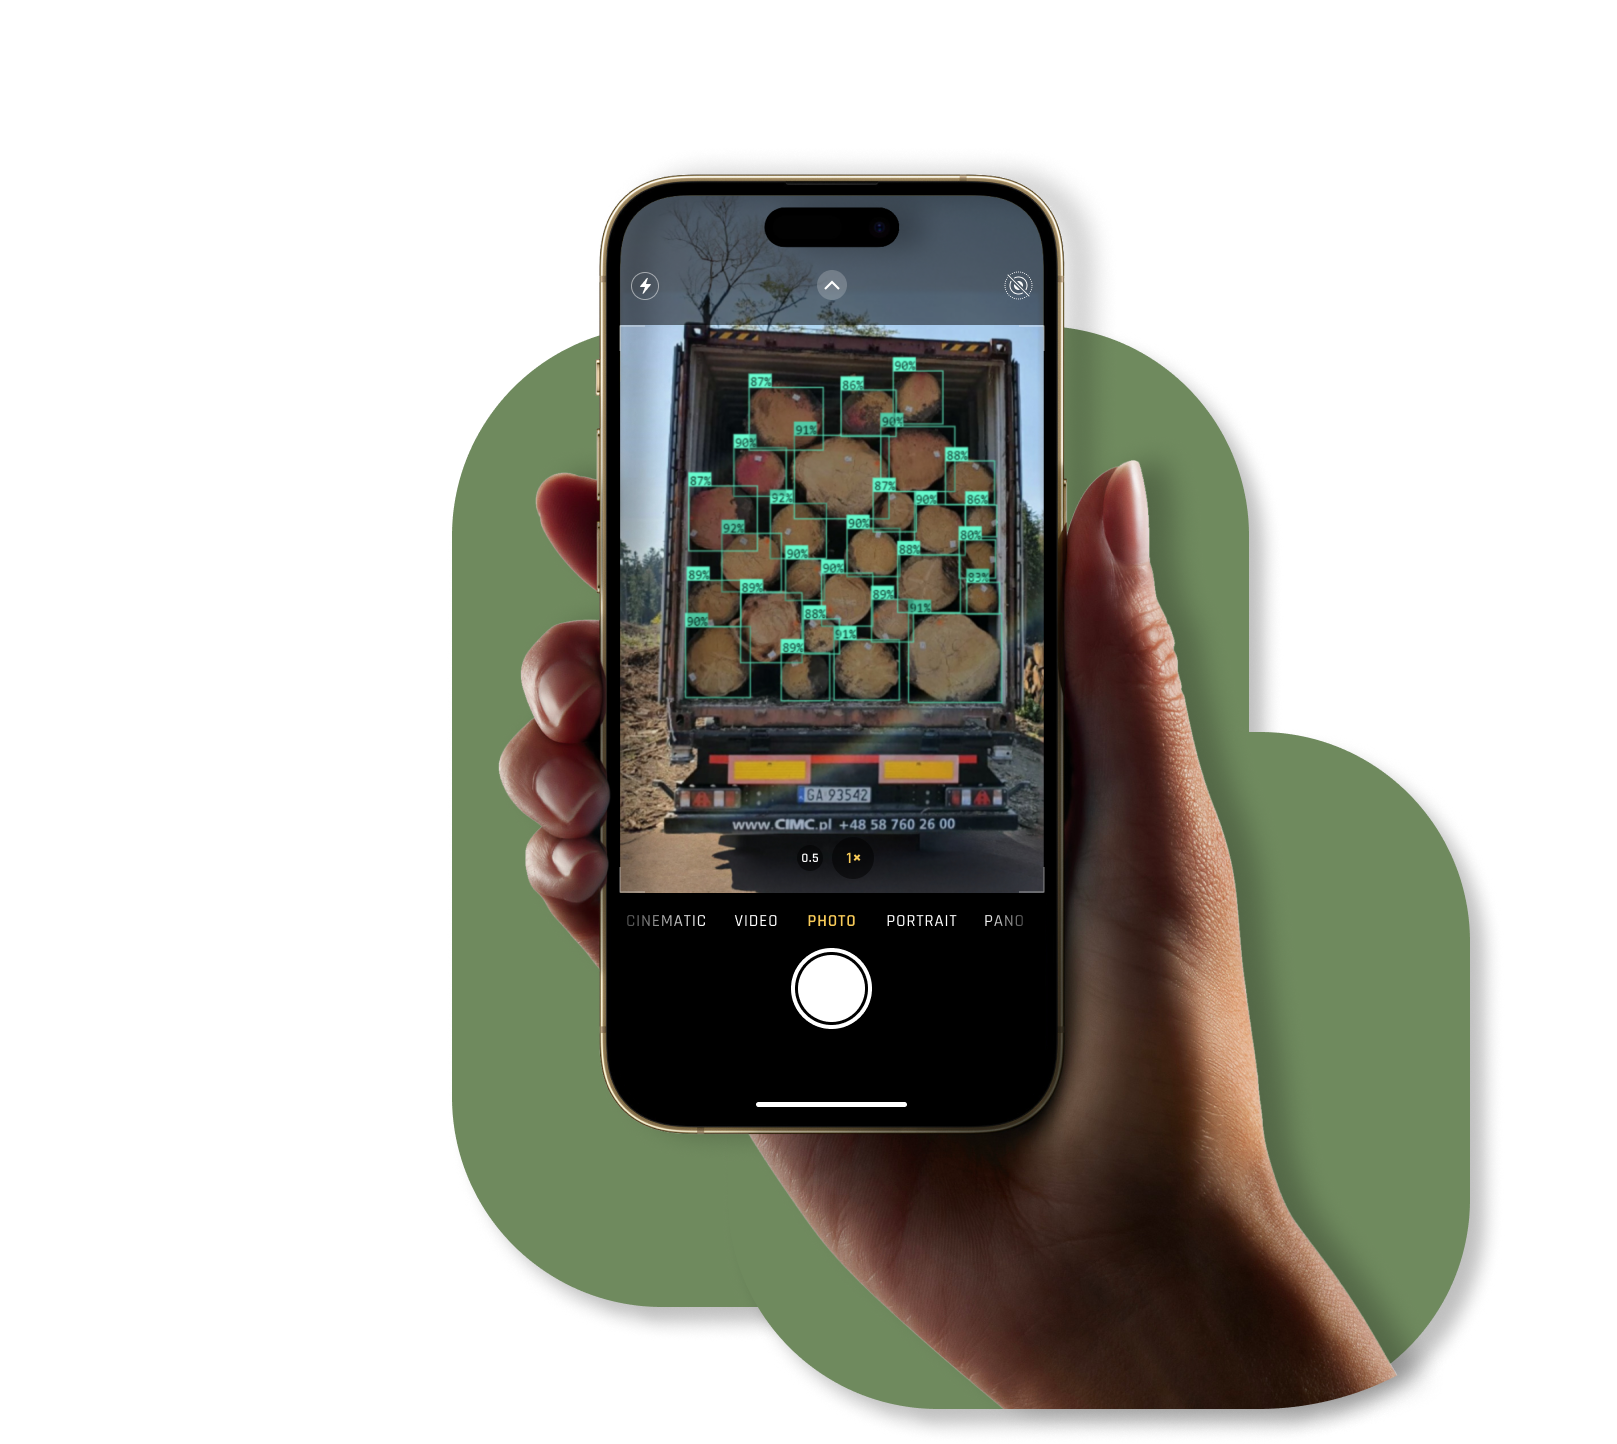
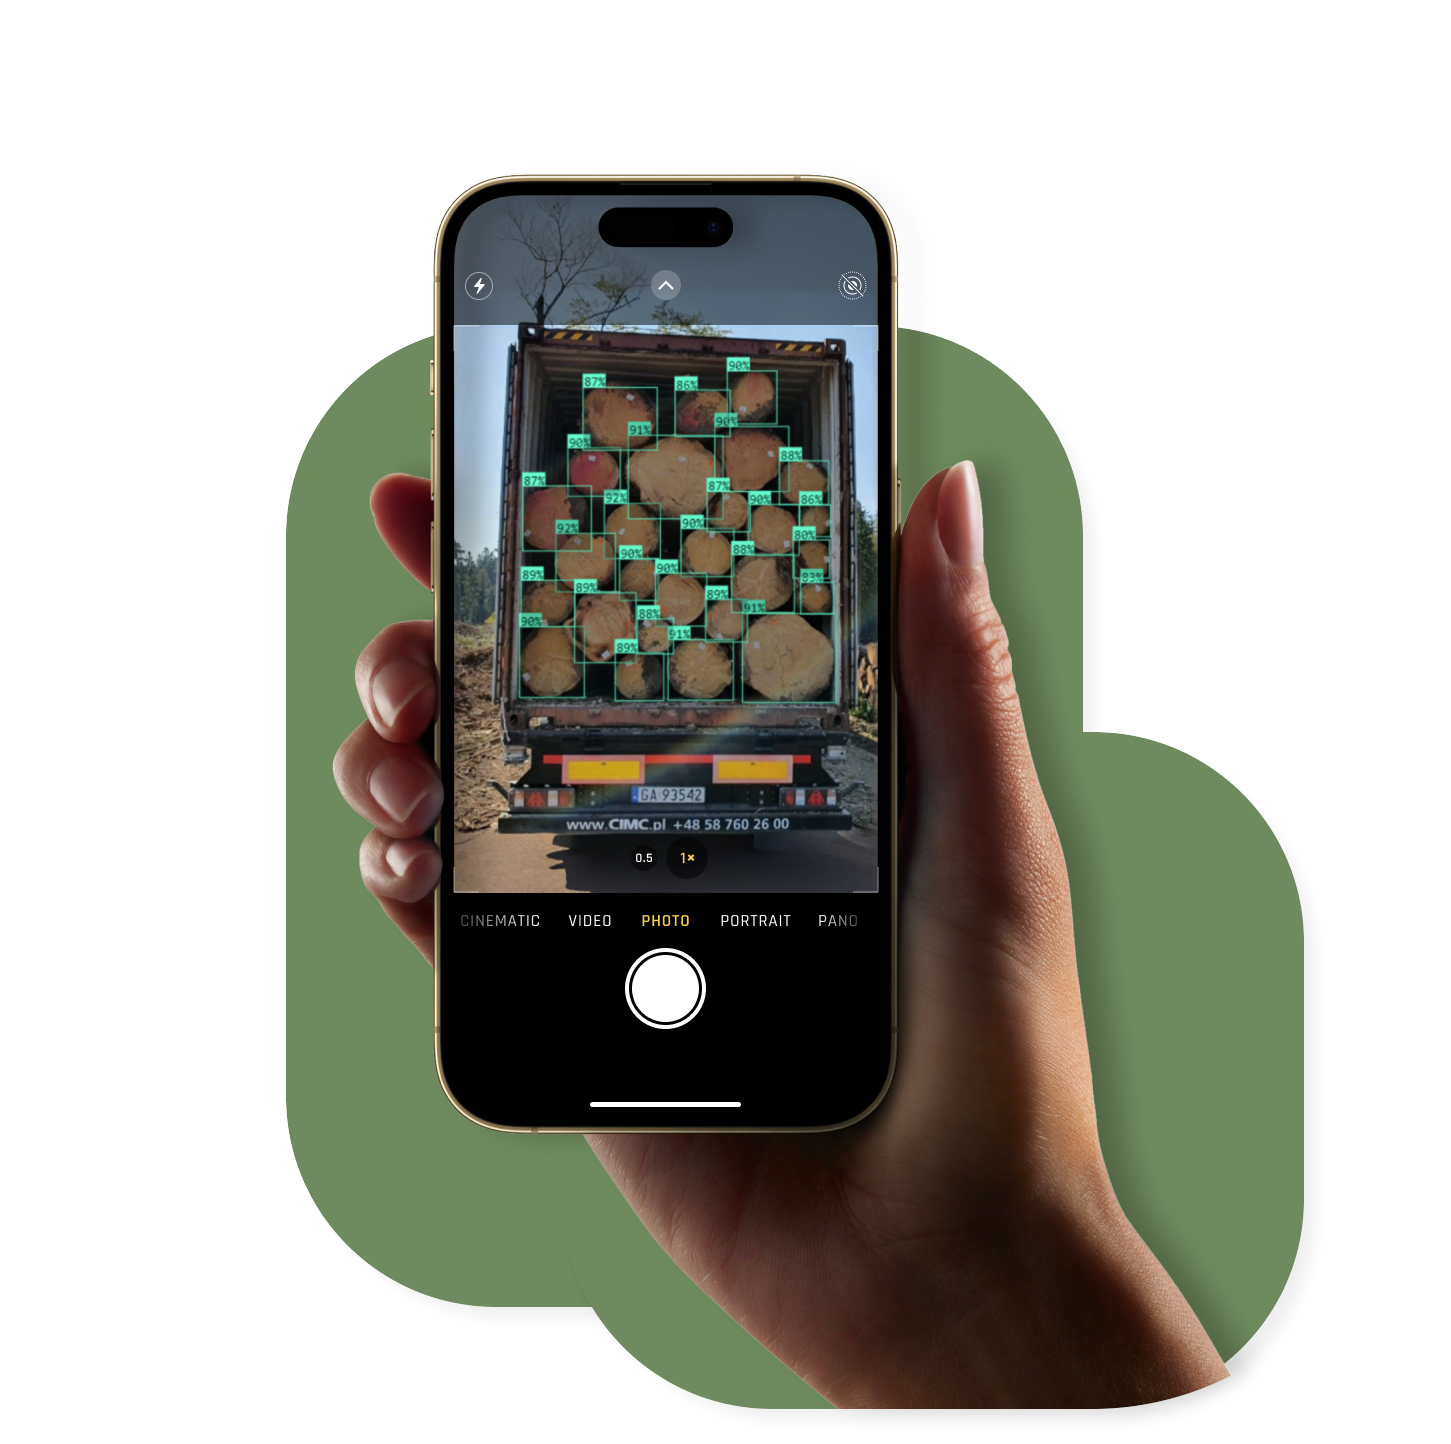
Landing Page Good to Go

diff --git a/New Website/src/components/LandingPage.vue b/New Website/src/components/LandingPage.vue
@@ -2,7 +2,7 @@
     <header>
         <nav class="container max-w-screen-xl mx-auto flex items-center py-4 mt-4 sm:mt-12 px-4">
             <!-- <div class="py-1"><img src="../assets/logo-bookmark.svg" alt="" /></div> -->
-            <h1 class="text-2xl">LogWatch</h1>
+            <h1 class="text-3xl">LogWatch</h1>
             <ul class="hidden sm:flex flex-1 justify-end items-center gap-12 text-custom-blue uppercase text-xs">
                 <!-- <li class="cursor-pointer">Features</li>
                 <li class="cursor-pointer">Pricing</li>
@@ -65,7 +65,7 @@
             <!-- Image -->
                 <div class="flex flex-1 justify-center z-10 mb-10 lg:mb-0">
                     <img
-                        class="w-5/6 h-5/6 sm:w-3/4 sm:h-3/4 md:w-3/6 md:h-2/6"
+                        class="w-3/6 sm:w-80% lg:w-80%"
                         src="../assets/illustration-features-tab-1.png"
                         alt=""
                     />
@@ -84,12 +84,12 @@
             <!-- <div class=" hidden lg:block overflow-hidden bg-custom-purple rounded-r-full absolute h-80 w-2/4 -bottom-24 -left-36"></div> -->
         </div>
         <!-- Feature #2 -->
-        <div class="relative mt-20 lg:mt-52">
-            <div class="container max-w-screen-xl mx-auto flex flex-col lg:flex-row-reverse items-center justify-between gap-x-24 px-4">
+        <div class="relative mt-10 lg:mt-52">
+            <div class="container max-w-screen-xl mx-auto flex flex-col lg:flex-row-reverse items-center justify-between gap-x-22 px-4">
                 <!-- Image -->
-                <div class="flex flex-1 justify-centre ml-0 mr-0 z-10 mb-100 lg:mb-0">
+                <div class="flex flex-1 justify-centre ml-10 mr-0 z-10 mb-10 lg:mb-0">
                     <img
-                        class="mr-0 ml-100 w-5/6 h-5/6 sm:w-3/4 sm:h-3/4 md:w-6/6 md:h-full"
+                        class="mr-0 ml-200 w-5/6 h-5/6 sm:w-3/4 sm:h-3/4 md:w-6/6 md:h-full"
                         src="../assets/illustration-features-tab-2.png"
                         alt=""
                     />
@@ -98,7 +98,7 @@
                 <div class="flex flex-1 flex-col items-center lg:items-start">
                     <h1 class="text-3xl text-custom-black">Enhanced Security</h1>
                     <p class="text-custom-grey my-4 text-center lg:text-left sm:w-3/4 lg:w-full">
-                        With integrated computer vision systems, we verify log counts and truck licence plates, 
+                        With integrated computer vision systems, we verify log counts and truck licence plates,
                         minimising the potential for human error and dishonesty.
 
                     </p>
@@ -149,19 +149,19 @@
         </section>
 
         <!-- Download -->
-        <section class="py-20 mt-20">
+        <!-- <section class="py-20 mt-20"> -->
         <!-- Heading -->
-        <div class="sm:w-3/4 lg:w-5/12 mx-auto px-2">
+        <!-- <div class="sm:w-3/4 lg:w-5/12 mx-auto px-2">
             <h1 class="text-3xl text-center text-custom-blue">Download the extension</h1>
             <p class="text-center text-custom-grey mt-4">
                 We've got more browsers in the pipeline. Please do let us know if you’ve got a favourite you’d like us to
                 prioritize.
             </p>
-        </div>
+        </div> -->
         <!-- Cards -->
-        <div class="container max-w-screen-xl mx-auto grid grid-cols-1 md:grid-cols-2 lg:grid-cols-3 gap-16 mt-16 px-4">
+        <!-- <div class="container max-w-screen-xl mx-auto grid grid-cols-1 md:grid-cols-2 lg:grid-cols-3 gap-16 mt-16 px-4"> -->
             <!-- Card 1 -->
-            <div class="flex flex-col rounded-md shadow-md lg:mb-16">
+            <!-- <div class="flex flex-col rounded-md shadow-md lg:mb-16">
                 <div class="p-6 flex flex-col items-center">
                     <img src="../assets/logo-chrome.svg" alt="" />
                     <h3 class="mt-5 mb-2 text-custom-blue text-lg">Add to Chrome</h3>
@@ -173,9 +173,9 @@
                         Add & Install Extension
                     </button>
                 </div>
-            </div>
+            </div> -->
             <!-- Card 2 -->
-            <div class="flex flex-col rounded-md shadow-md lg:my-8">
+            <!-- <div class="flex flex-col rounded-md shadow-md lg:my-8">
                 <div class="p-6 flex flex-col items-center">
                     <img src="../assets/logo-firefox.svg" alt="" />
                     <h3 class="mt-5 mb-2 text-custom-blue text-lg">Add to Firefox</h3>
@@ -187,9 +187,9 @@
                         Add & Install Extension
                     </button>
                 </div>
-            </div>
+            </div> -->
             <!-- Card 3 -->
-            <div class="flex flex-col rounded-md shadow-md lg:mt-16">
+            <!-- <div class="flex flex-col rounded-md shadow-md lg:mt-16">
                 <div class="p-6 flex flex-col items-center">
                     <img src="../assets/logo-opera.svg" alt="" />
                     <h3 class="mt-5 mb-2 text-custom-blue text-lg">Add to Opera</h3>
@@ -203,20 +203,20 @@
                 </div>
             </div>
         </div>
-    </section>
+    </section> -->
 
     <!-- FAQ -->
-    <section class="bg-custom-white py-20">
-        <div class="container max-w-screen-xl mx-auto px-4">
+    <!-- <section class="bg-custom-white py-20">
+        <div class="container max-w-screen-xl mx-auto px-4"> -->
             <!-- Heading -->
-            <div class="sm:w-3/4 lg:w-5/12 mx-auto px-2">
+            <!-- <div class="sm:w-3/4 lg:w-5/12 mx-auto px-2">
                 <h1 class="text-3xl text-center text-custom-blue">Frequently Asked Questions</h1>
                 <p class="text-center text-custom-grey mt-4">
                     Here are some of our FAQs. If you have any other questions you'd like answered please feel free to email us.
-                </p>
-            </div>
+                </p> -->
+            <!-- </div> -->
             <!-- FAQ Items -->
-            <div class="flex flex-col sm:w-3/4 lg:w-5/12 mt-12 mx-auto">
+            <!-- <div class="flex flex-col sm:w-3/4 lg:w-5/12 mt-12 mx-auto">
                 <div v-for="(faq, index) in faqs" :key="index" class="border-b">
                     <div class="flex items-center py-4 cursor-pointer" @click="toggleFaq(index)">
                         <span class="flex-1">{{ faq.question }}</span>
@@ -226,12 +226,12 @@
                         {{ faq.answer }}
                     </div>
                 </div>
-                <!-- <button type="button" class="mt-12 flex self-center btn btn-purple hover:bg-custom-white hover:text-black">
+                <button type="button" class="mt-12 flex self-center btn btn-purple hover:bg-custom-white hover:text-black">
                     More Info
-                </button> -->
+                </button>
                 </div>
             </div>
-    </section>
+    </section> -->
 
     <!-- Contact Us -->
     <!-- <section class="bg-custom-purple text-white py-20">
@@ -254,20 +254,20 @@
     </section> -->
 
     <!-- Footer -->
-    <footer class="bg-custom-blue py-8">
+    <footer class="bg-custom-green py-8">
         <div class="container max-w-screen-xl mx-auto flex flex-col md:flex-row items-center px-4">
-            <div class="flex flex-1 flex-wrap items-center justify-center md:justify-start gap-12">
+            <div class="flex flex-1 flex-wrap items-center justify-center md:justify-middle gap-12">
                 <img src="../assets/logo-custom-white.png" alt="" />
                 <ul class="flex text-white uppercase gap-12 text-xs">
-                    <li class="cursor-pointer">Features</li>
-                    <li class="cursor-pointer">Pricing</li>
-                    <li class="cursor-pointer">Contact</li>
+                    <li class="cursor-pointer">LogWatch</li>
+                    <!-- <li class="cursor-pointer">Pricing</li>
+                    <li class="cursor-pointer">Contact</li> -->
                 </ul>
         </div>
-        <div class="flex gap-10 mt-12 md:mt-0">
+        <!-- <div class="flex gap-10 mt-12 md:mt-0">
             <li><i class="text-white text-2xl fab fa-twitter"></i></li>
             <li><i class="text-white text-2xl fab fa-facebook-square"></i></li>
-        </div>
+        </div> -->
         </div>
     </footer>
 </template>

diff --git a/New Website/index.html b/New Website/index.html
@@ -4,7 +4,7 @@
     <meta charset="UTF-8" />
     <link rel="icon" type="image/svg+xml" href="/vite.svg" />
     <meta name="viewport" content="width=device-width, initial-scale=1.0" />
-    <title>Sidebar</title>
+    <title>LogWatch</title>
     <link rel="preconnect" href="https://fonts.googleapis.com">
     <link rel="preconnect" href="https://fonts.gstatic.com" crossorigin>
     <link href="https://fonts.googleapis.com/css2?family=Urbanist:ital,wght@0,100..900;1,100..900&display=swap" rel="stylesheet">

diff --git a/New Website/tailwind.config.js b/New Website/tailwind.config.js
@@ -10,7 +10,7 @@ export default {
         "custom-purple": "#5267DF",
         "custom-red": "#FA5959",
         "custom-blue": "#5267DF",
-        "custom-grey": "#9194A2",
+        "custom-grey": "#626573",
         "custom-white": "#F7F7F7",
         "custom-green": "#6F8A5E",
         "custom-black": "#1A1E1A",
